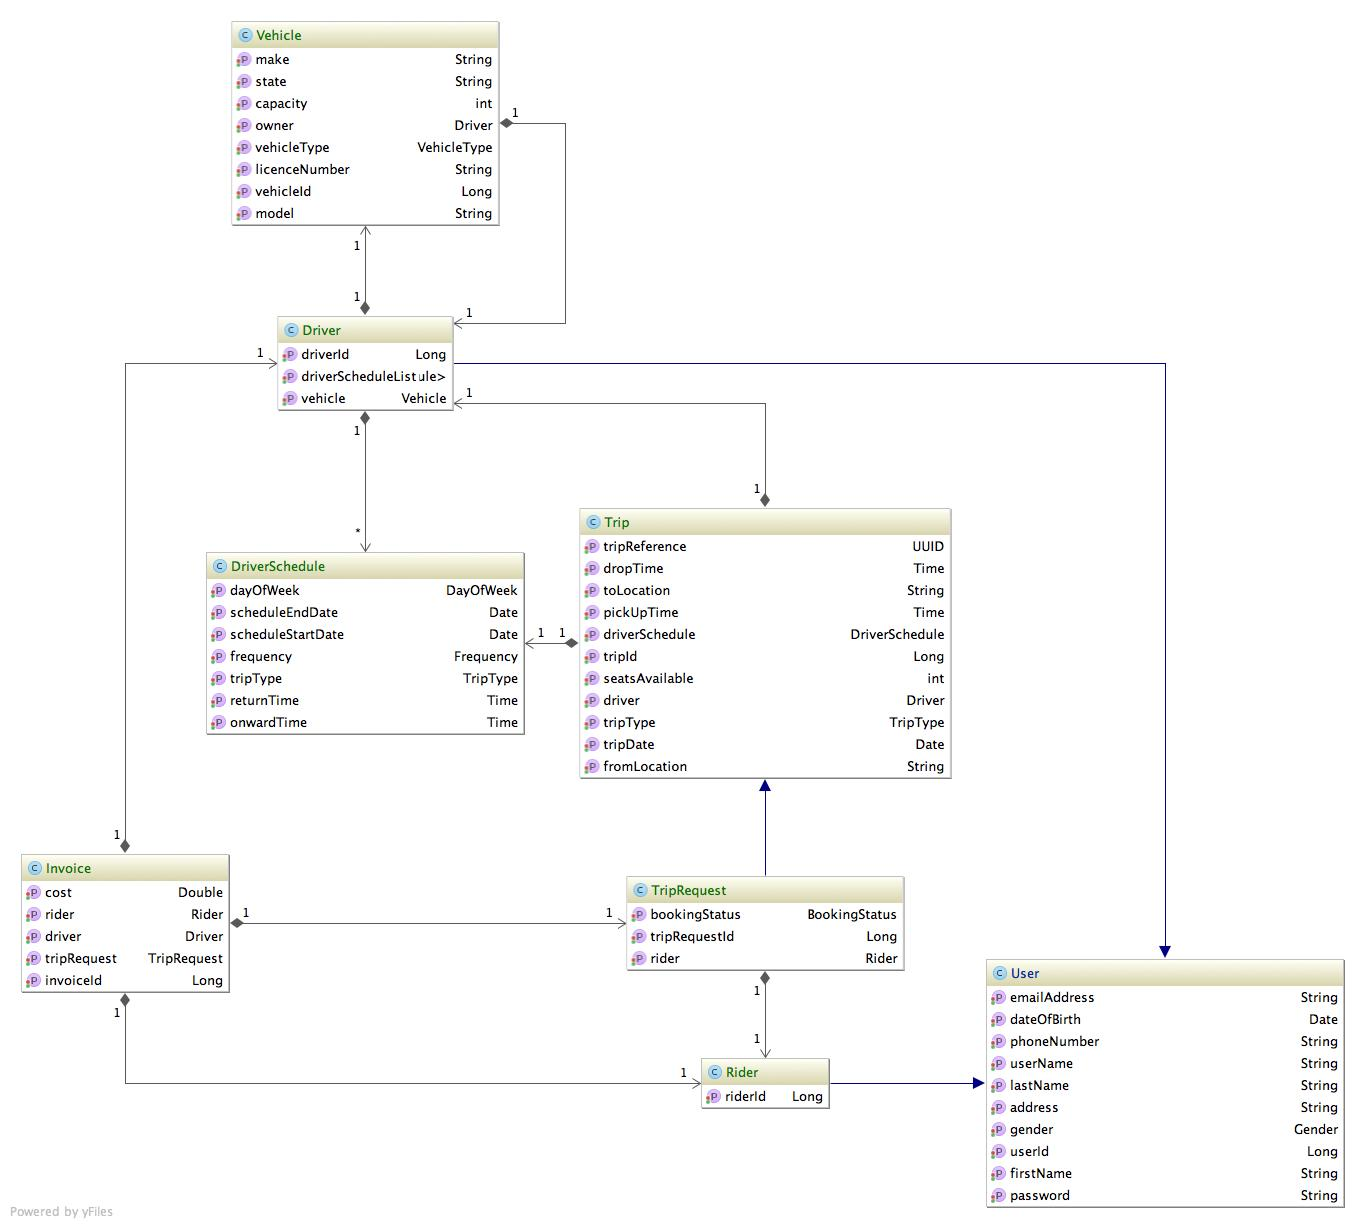
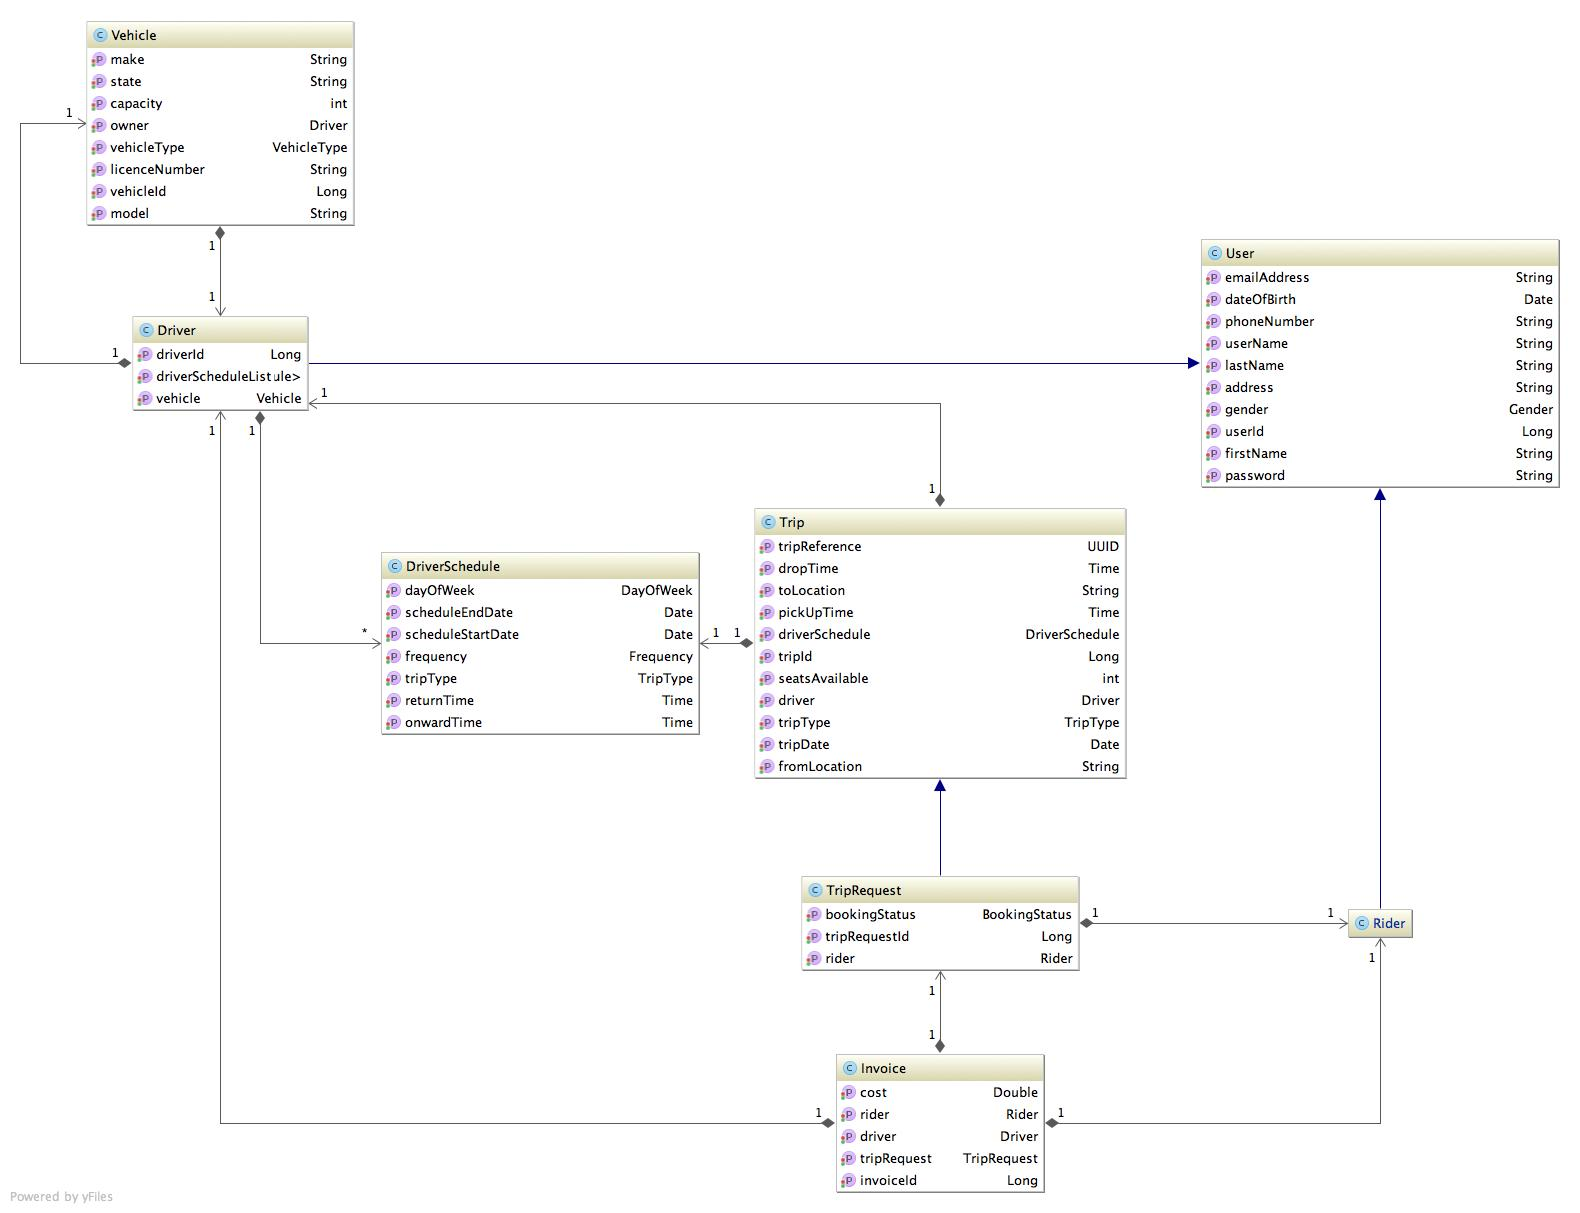
Entity Model Design

diff --git a/src/main/java/com/itu/shareonwheels/entity/Rider.java b/src/main/java/com/itu/shareonwheels/entity/Rider.java
@@ -7,13 +7,4 @@ import java.util.List;
  */
 public class Rider extends User {
 
-    private Long riderId;
-
-    public Long getRiderId() {
-        return riderId;
-    }
-
-    public void setRiderId(Long riderId) {
-        this.riderId = riderId;
-    }
 }
